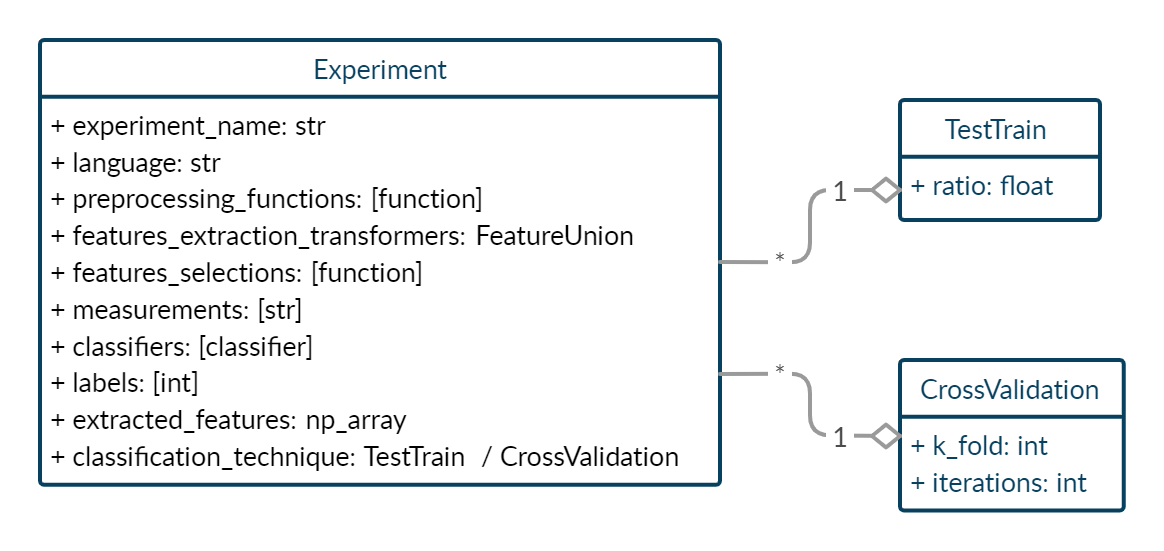
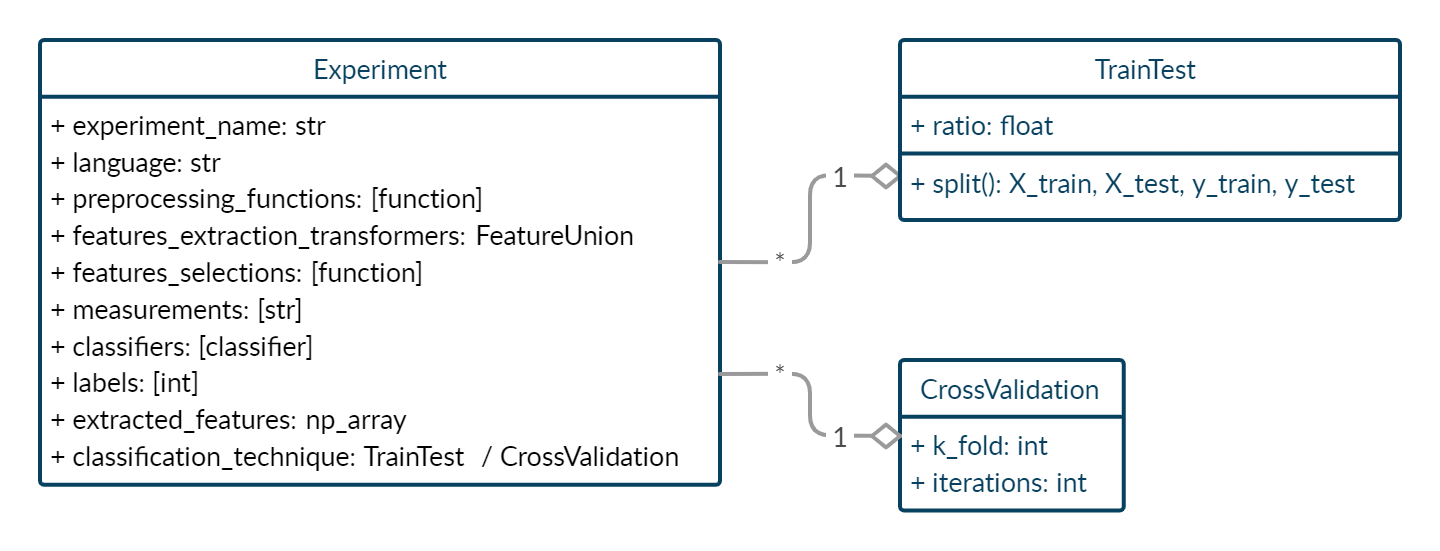
__str__ function added to Experiment class

Changed region(s): [[0.0, 0.0617, 0.9897, 0.9564], [0.2165, 0.0926, 0.4021, 0.1543]]

diff --git a/Experiment.py b/Experiment.py
@@ -123,7 +123,16 @@ class Experiment:
         self.labels = None
         self.extracted_features = None
 
+    def __str__(self):
+        result = self.experiment_name + ": "
+        result += str(len(self.features_extraction_transformers.transformer_list)) + " transformer, "
+        result += str(len(self.classifiers)) + " classifiers, "
+        result += str(len(self.features_selection)) if self.features_selection else "no"
+        result += " features selection, using " + str(self.classification_technique)
+        result += " in " + self.language
+        return result
+
 
 if __name__ == '__main__':
     experiment = Experiment('test_config.json')
-    print(bool)
+    print(experiment)

diff --git a/classification_technique.py b/classification_technique.py
@@ -2,8 +2,11 @@ from sklearn.model_selection import train_test_split
 
 
 class TrainTest:
-    def __init__(self, ratio=0.3):
+    def __init__(self, ratio=0.333):
         self.ratio = ratio
+
+    def __str__(self):
+        return str(round(self.ratio*100)) + "% train test split"
 
     def split(self, X, y):
         """
@@ -16,3 +19,6 @@ class CrossValidation:
     def __init__(self, k_fold=5, iteration=20):
         self.k_fold = k_fold
         self.iteration = iteration
+
+    def __str__(self):
+        return str(self.k_fold) + " folds X " + str(self.iteration) + " iterations CV"
